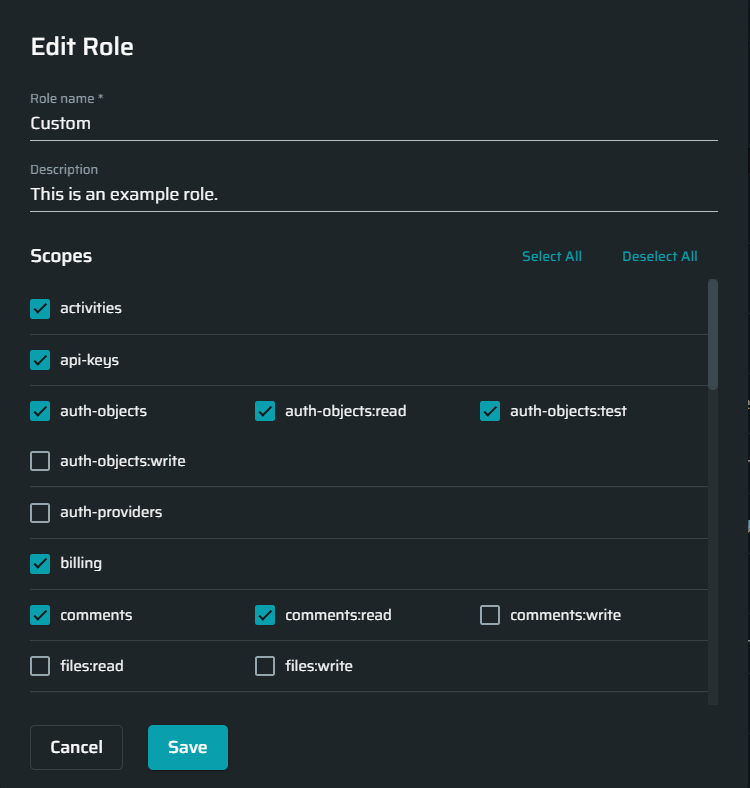
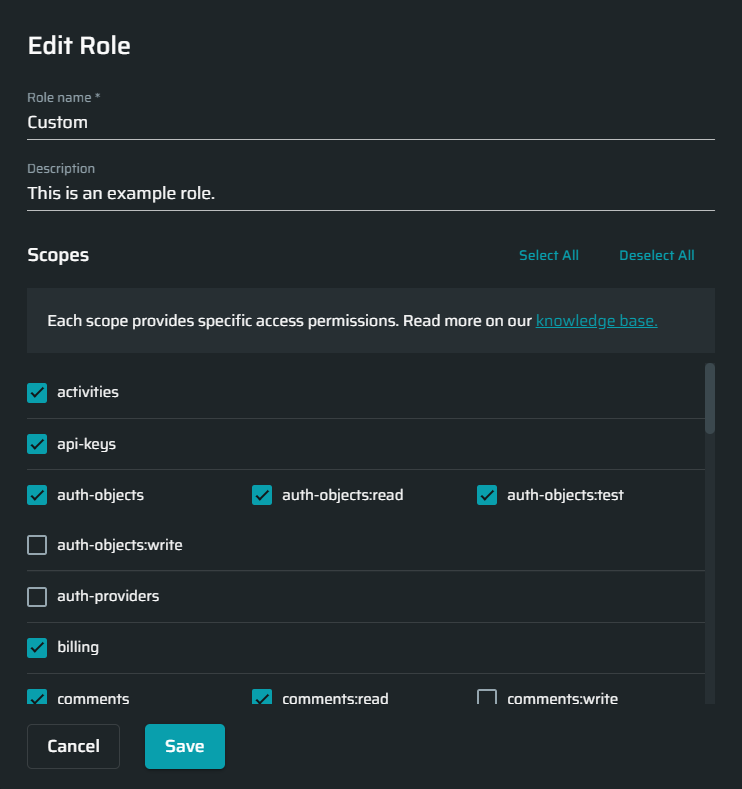
updated roles popups with link to KB

diff --git a/docs/guide/np-web-ui/advanced-set-up/managing-org.md b/docs/guide/np-web-ui/advanced-set-up/managing-org.md
@@ -149,6 +149,8 @@ To create a custom role with specific permissions, follow these steps:
 
 2. On the **Create Role** popup, do the following:
 
+    ![create-role-popup](media/create-role-popup.png ':size=30%')
+
     a.  In the **Name** field, enter a role name.<p>
     b. _(Optional)_. In the **Description** field, enter a short description of the permissions that a user assigned to this role will be granted.<p>
     c. Select the access scopes for the role. You can find more information about each scope at [Managing Access Scopes](guide/np-web-ui/advanced-set-up/managing-roles/overview.md).<br>
@@ -183,7 +185,7 @@ To delete a custom role, do the following:
 2. From the drop-down list, select **Delete**.
 
     >[!WARNING|label:Important]
-The users assigned to the role you have deleted automatically lose their permissions and become Guests.
+The users assigned to the role that you have deleted automatically lose their permissions and become Guests.
 
   ![delete-role](media/delete-role.png ':size=45%')
 
@@ -198,7 +200,7 @@ To create a new API/CLI authentication token (API key), follow these steps:
 
 2. Assign the API key a name, select which scope(s) of access to allow it and which type of actions (such as read or write) it is permitted to perform. 
 
-    ![New-API-Key-Prompt](media/new-api-key-prompt.png ':size=25%')
+    ![New-API-Key-Prompt](media/new-api-key-prompt.png ':size=30%')
 
 3. Click **Create**.
 
